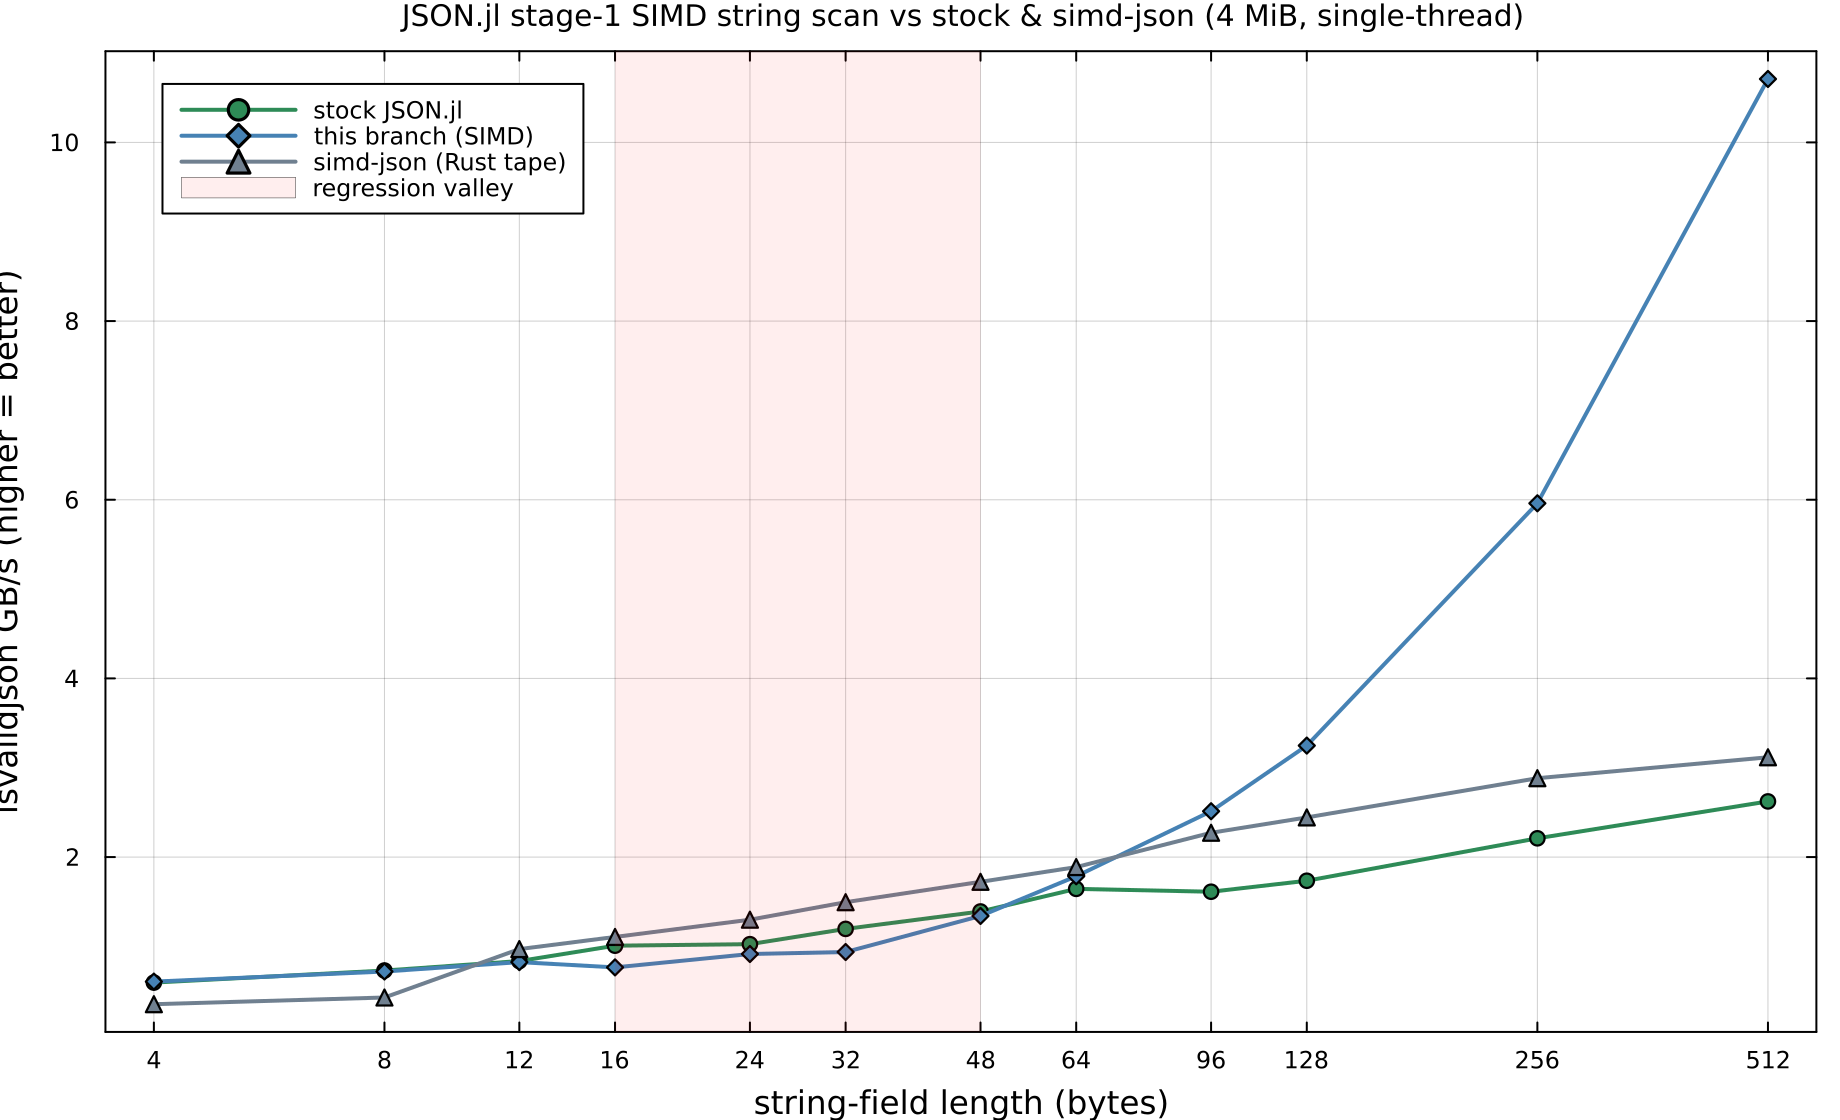
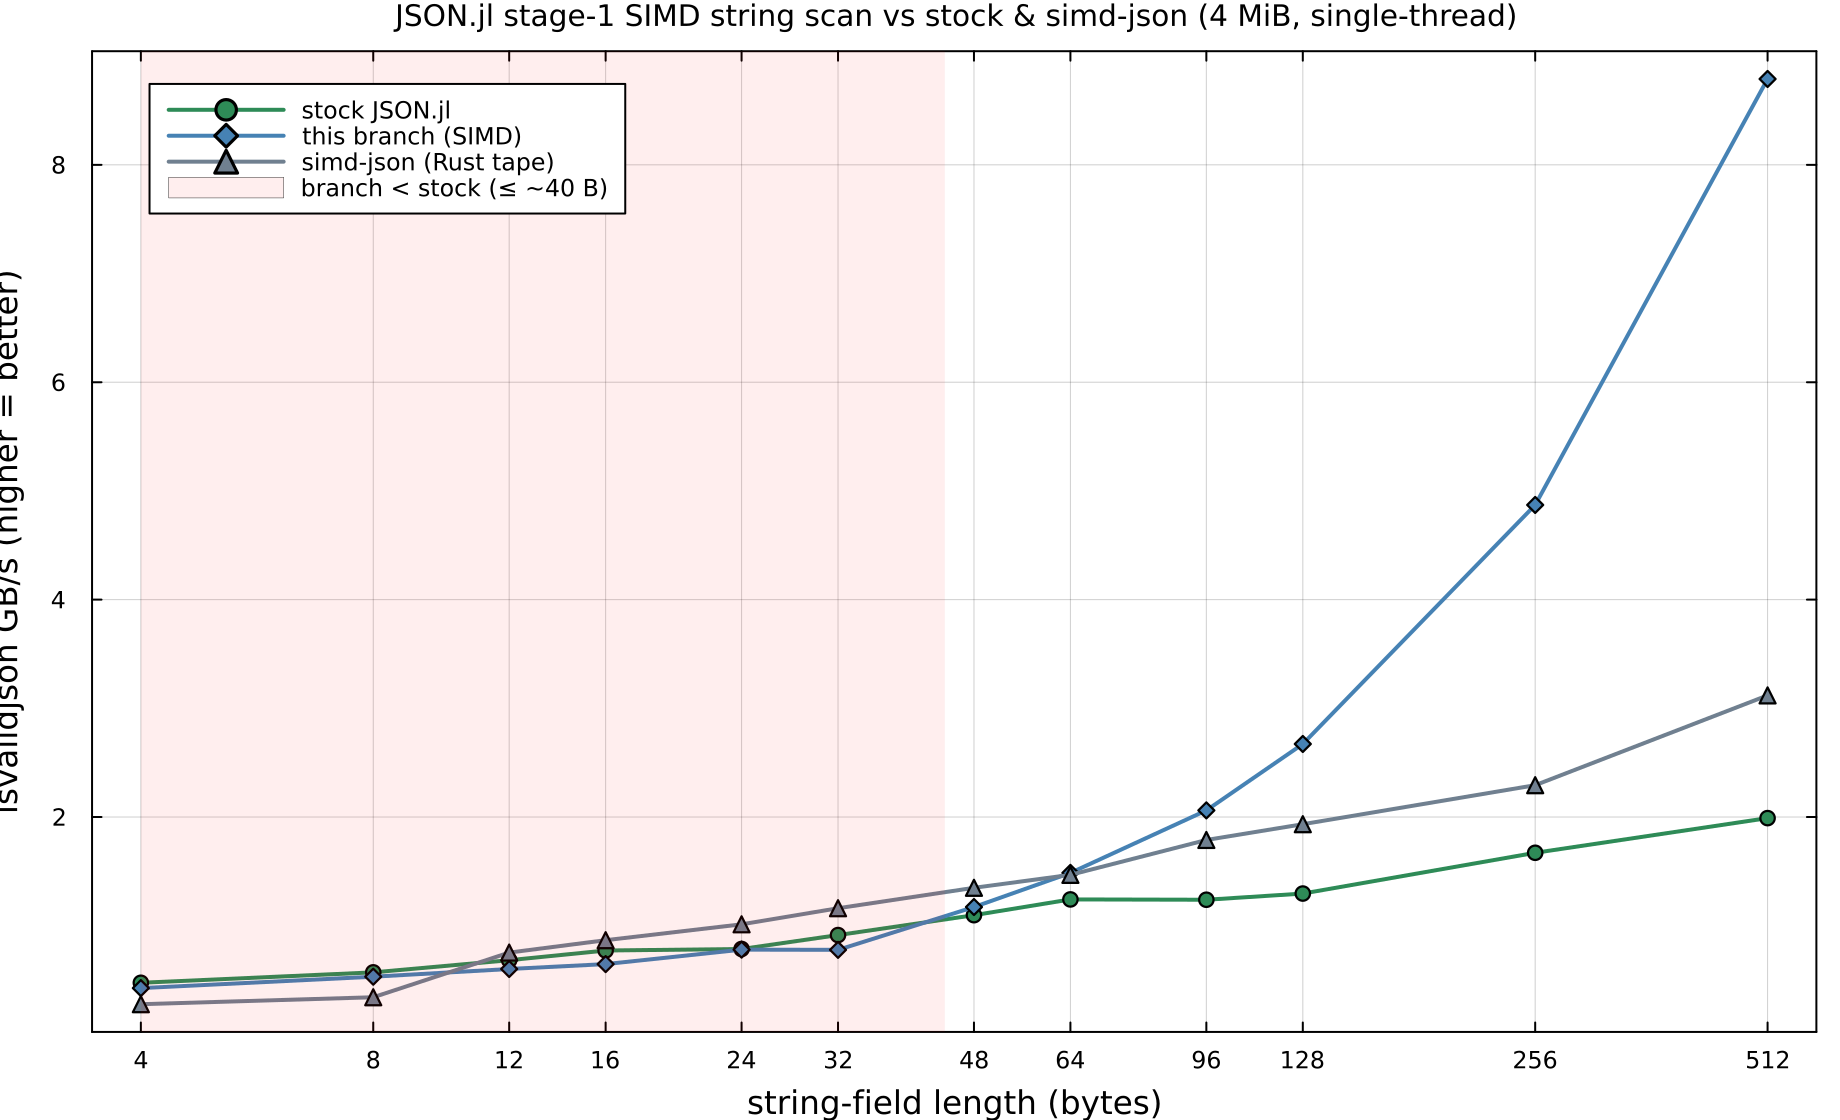
perf: refresh note + plot with clean same-core numbers; clarify GB/s vs ratios
Re-ran the sweep on a quiet core (taskset -c 11, σ ≤ 8%) for the inline-leaf
parsestring, fork + stock + simd-json all same-session. Clarified the table:
the three "GB/s" columns are absolute throughputs (not ratios of each other);
only the two "×" columns are ratios.

Clean picture: branch beats stock for strings ≥48 B (up to 4.4× at 512 B) and
beats simd-json at <=8 B and >=64 B; a ~10–16% tax remains for <=32 B strings.
Inlining the scan removed the non-leaf-call cost (bottom ~16% vs the cold-call
design's ~24%, stock cross-over moved 64 B→48 B), but parsestring is now ~3×
stock's instruction count — that size is the residual short/medium tax.

diff --git a/perf/string_scan_bench.md b/perf/string_scan_bench.md
@@ -12,56 +12,63 @@ are 4 MiB arrays of `{id, a, b, c}` records whose three string fields are each e
 **Setup:** single-thread, `julia -O3 -t1`, `taskset -c 4` (SMT sibling idle), `RAYON_NUM_THREADS=1`,
 median of 400 reps with `GC.gc()` between and a DCE sink. `simd-json` = the Rust crate's `to_tape`
 (via the BlazingPorts `bp_simdjson_parse` shim) on the *same* bytes — it must copy the input first (it
-unescapes in place), which is ~1% of its time. Machine: Zen5, 4.5 GHz. Reproduce with
-[`string_scan_bench.jl`](string_scan_bench.jl).
+unescapes in place), which is ~1% of its time. Machine: Zen5; this run pinned to a quiet core (`taskset
+-c 11`) for low noise rather than a peak-boost core, so absolute GB/s is conservative but the three-way
+comparison is clean. Reproduce with [`string_scan_bench.jl`](string_scan_bench.jl).
 
 ![isvalidjson GB/s vs string length](string_scan_bench.png)
 
 (Regenerate the plot from the saved data with [`plot_string_scan.jl`](plot_string_scan.jl).)
 
-## Results (GB/s, higher is better)
+## Results
 
-| string len | stock JSON.jl | this branch | simd-json (Rust) | branch / stock | branch / simd-json |
-|-----------:|--------------:|------------:|-----------------:|---------------:|-------------------:|
-|   4 | 0.595 |  0.606 | 0.353 | 1.02× | **1.72×** |
-|   8 | 0.730 |  0.719 | 0.428 | 0.99× | **1.68×** |
-|  12 | 0.836 |  0.824 | 0.970 | 0.99× | 0.85× |
-|  16 | 1.008 |  0.765 | 1.106 | **0.76×** | 0.69× |
-|  24 | 1.025 |  0.915 | 1.299 | 0.89× | 0.70× |
-|  32 | 1.196 |  0.937 | 1.495 | **0.78×** | 0.63× |
-|  48 | 1.391 |  1.341 | 1.723 | 0.96× | 0.78× |
-|  64 | 1.644 |  1.785 | 1.888 | 1.09× | 0.95× |
-|  96 | 1.612 |  2.513 | 2.272 | 1.56× | 1.11× |
-| 128 | 1.735 |  3.248 | 2.444 | 1.87× | 1.33× |
-| 256 | 2.210 |  5.960 | 2.883 | 2.70× | 2.07× |
-| 512 | 2.623 | 10.710 | 3.117 | 4.08× | **3.44×** |
+Each of the three "GB/s" columns is an **absolute throughput** (document bytes ÷ median parse time,
+**higher = better**) — they are independent measurements, *not* ratios of each other. The two `×`
+columns *are* ratios, computed from those GB/s (`<1` = the branch is slower, `>1` = faster). Numbers are
+a clean same-core run (core 11, σ ≤ 8% except where noted); absolute GB/s is lower than a boosted core,
+but the branch/stock/simd-json comparison is apples-to-apples.
 
-(`simd-json` column from the branch run; the stock run measured it within run-to-run noise, ≤10%.)
+| string len (B) | stock JSON.jl (GB/s) | this branch (GB/s) | simd-json (GB/s) | branch ÷ stock | branch ÷ simd-json |
+|---------------:|---------------------:|-------------------:|-----------------:|---------------:|-------------------:|
+|   4 | 0.475 | 0.426 | 0.278 | 0.90× | **1.53×** |
+|   8 | 0.571 | 0.531 | 0.342 | 0.93× | **1.55×** |
+|  12 | 0.683 | 0.602 | 0.753 | 0.88× | 0.80× |
+|  16 | 0.772 | 0.647 | 0.867 | **0.84×** | 0.75× |
+|  24 | 0.786 | 0.780 | 1.013 | 0.99×¹ | 0.77× |
+|  32 | 0.914 | 0.778 | 1.161 | **0.85×** | 0.67× |
+|  48 | 1.097 | 1.172 | 1.349 | **1.07×** | 0.87× |
+|  64 | 1.242 | 1.486 | 1.468 | 1.20× | 1.01× |
+|  96 | 1.239 | 2.061 | 1.789 | 1.66× | 1.15× |
+| 128 | 1.296 | 2.672 | 1.934 | 2.06× | 1.38× |
+| 256 | 1.671 | 4.871 | 2.293 | 2.92× | 2.12× |
+| 512 | 1.990 | 8.790 | 3.119 | **4.42×** | 2.82× |
+
+¹ stock σ=14% at L=24; treat that ratio as noisy.
 
 ## Reading the curve
 
-- **Long strings (≥ 64 B): a clear, growing win.** The branch overtakes stock at ~64 B and reaches
-  **4.1× stock / 3.4× simd-json at 512 B** — the SIMD classifier scans content at memory-bandwidth speed
-  while the scalar loop plods byte-by-byte. This is the regime the change is for (text blobs, base64,
-  long descriptions, embedded documents).
-- **Very short strings (≤ 12 B): parity** with stock. They never leave the scalar fast-path, so they
-  cost the same (here the branch even edges out simd-json, whose fixed per-document tape overhead
-  dominates when records are tiny).
-- **Medium strings (16–48 B): a regression valley** — the branch is **0.76–0.96× stock** (worst ~24% at
-  16 B). **Root cause (from `code_native`, not the noisy timings):** the SIMD fast-forward is a
-  `@noinline` *call* inside `parsestring`'s string loop, which makes `parsestring` a **non-leaf
-  function** — it must push/pop 5 callee-saved registers per string and keep loop-carried state across
-  the (cold) call, **doubling the loop body (50 vs 26 instructions)** versus stock's clean leaf loop.
-  Strings too short to leave the scalar window never take the call but still pay this. (The per-byte
-  window counter is secondary, ~8%.) The shape follows: ≤12 B the per-string fixed costs hide the
-  bulkier loop (parity); 16–48 B the loop dominates and SIMD hasn't kicked in (valley); ≥64 B SIMD wins.
+- **Long strings (≥ 48 B): a growing win.** The branch overtakes stock at ~48 B and reaches **4.4×
+  stock / 2.8× simd-json at 512 B** — the SIMD classifier scans content at memory-bandwidth speed while
+  the scalar loop plods byte-by-byte. This is the regime the change is for (text blobs, base64, long
+  descriptions, embedded documents).
+- **Short/medium strings (≤ 32 B): a ~10–16 % regression**, deepest (~16 %) around 16–32 B. Even
+  4–8 B strings are ~7–10 % slower (the branch still beats simd-json there, whose fixed per-document
+  tape overhead dominates on tiny records — but that's a comparison to Rust, not to stock JSON.jl).
+- **Root cause (from `code_native`, not the noisy timings):** adding the SIMD path makes `parsestring`'s
+  string loop bigger and changes its shape. The original cold-`@noinline`-call design was worse — the
+  call made `parsestring` *non-leaf*, forcing 5 callee-saved push/pops per string and ~doubling the loop
+  (26 → 50 instructions). **Inlining the scan** (this branch) removes the call so `parsestring` stays a
+  leaf (which is why the bottom is ~16 % here, not ~24 %, and the stock cross-over moved from ~64 B to
+  ~48 B), but the inline `Vec{64,UInt8}` scan + scalar-window logic still makes the function ~3× the
+  instruction count of stock's minimal tight loop. That residual size is the remaining short/medium tax;
+  ≥48 B the SIMD throughput outweighs it.
 
-**Net:** a strong win when strings are long, parity when they're tiny, and a medium-string valley. Whether
-that trade is worth it depends on the workload — string-heavy/long-field JSON benefits a lot; uniformly
-short-field JSON (many 16–48 B keys/values) regresses. **Fix direction:** move the hot scalar scan into
-its own *leaf* helper (no call in its body) so `parsestring`'s per-string loop stays leaf-tight, and only
-`parsestring` (not the loop) dispatches to the SIMD path for long strings — that removes the non-leaf tax
-from the short/medium path while keeping the long-string win.
+**Net:** a strong, growing win for strings ≥ 48 B, and a ~10–16 % tax for strings ≤ 32 B. Whether the
+trade is worth it depends on the workload — string-heavy/long-field JSON (descriptions, text, base64,
+embedded blobs) benefits a lot; JSON that is overwhelmingly short keys/values regresses. **Remaining
+lever:** the short/medium tax is now purely the *size* of the inlined scan (parsestring is ~3× stock's
+instruction count). Shrinking it — a smaller/branchless scalar window, or only compiling the SIMD path
+in for buffer types where it pays — would narrow the tax further without losing the long-string win.
 
 ## Caveats
 
